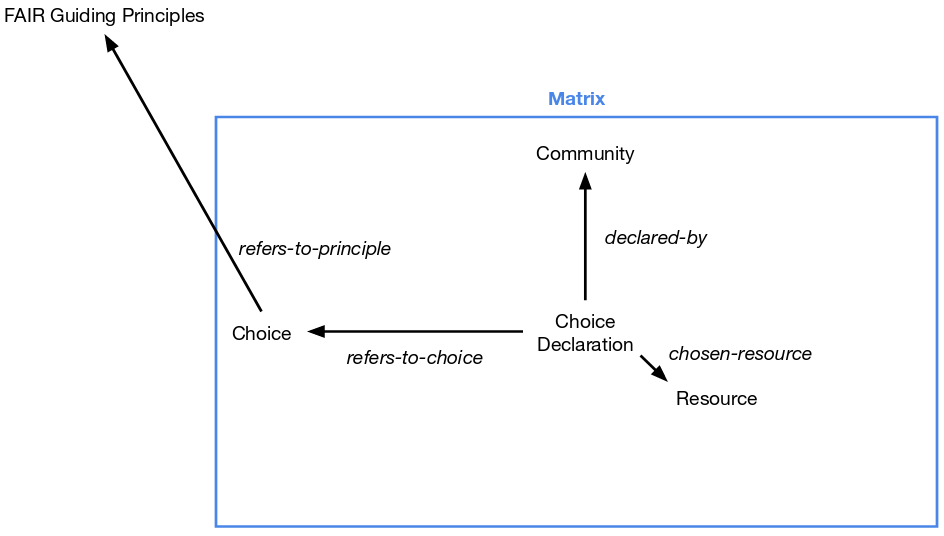
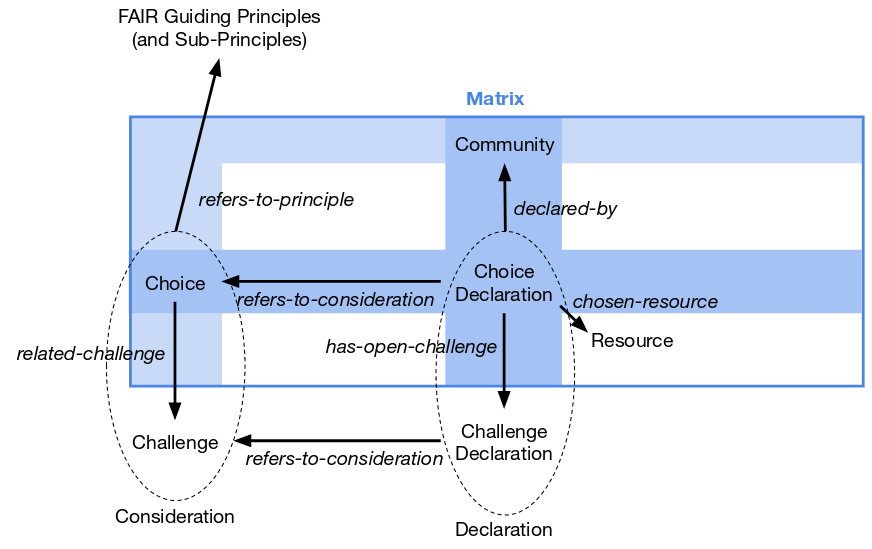
Add definitions around challenges

Changed region(s): [[0.0, 0.1194, 1.0, 0.9851], [0.0, 0.0, 0.3716, 0.1194]]

diff --git a/icc-overview.md b/icc-overview.md
@@ -11,17 +11,20 @@
 ## Classes
 
 - `Choice`: The kind of choice communities have to make (can be expressed as a question; choices are represented as rows in the Matrix)
+- `Challenge`: The kind of challenge that some communities face if the lack of existing resources doesn't allow them to make a choice yet
+- `Consideration`: Something that is either a `Choice` or a `Challenge`
 - `Community`: A non-empty set of people and/or organizations that form a self-declared community with the aim to implement the FAIR principles for their fields of interest (communities are represented as columns in the Matrix)
 - `ChoiceDeclaration`: The expression of a community of their choice made (corresponds to an answer to a question, i.e. a cell in the Matrix)
+- `ChallengeDeclaration`: The expression of a community of challenge they accepted
+- `Declaration`: Something that is either a `ChoiceDeclaration` or a `ChallengeDeclaration`
 - `Resource`: An artifact or service that can contribute to the implementation of the FAIR principles (corresponds to the possible values of the cells in the Matrix)
 
 ## Properties (= Relations)
 
-- `refers-to-principle`: connects a `Choice` (left) to the FAIR principle (right) it refers to (a choice can refer to zero or more FAIR principles)
-- `refers-to-choice`: connects a `ChoiceDeclaration` (left) to the `Choice` (right) it is derived from (indicates row of the Matrix; a choice declaration has to refer to exactly one choice; to address several choices, separate choice declarations should be defined)
-- `declared-by`: connects a `ChoiceDeclaration` (left) to the `Community` (right) that made the declaration (a choice declaration has to refer to exactly one community; to refer to several communities, separate choice declarations should be defined)
+- `refers-to-principle`: connects a `Consideration` (left) to a FAIR (sub-)principle (right) it refers to (a choice can refer to zero or more FAIR principles)
+- `related-challenge`: connects a `Choice` (left) to a `Challenge` (right) that some communities might face before they can make the given kind of choice
+- `refers-to-consideration`: connects a `Declaration` (left) to the `Consideration` (right) it is derived from (indicates row of the Matrix for choice declarations; a declaration has to refer to exactly one consideration; to address several consideration, separate declarations should be defined)
+- `declared-by`: connects a `Declaration` (left) to the `Community` (right) that made the declaration (a declaration has to refer to exactly one community; to refer to several communities, separate declarations should be defined)
 - `chosen-resource`: connects `ChoiceDeclaration` (left) to the `Resource` (right) that was chosen through the declaration (to refer to several resources, separate choice declarations should be defined)
+- `has-open-challenge`: connects a `ChoiceDeclaration` (left) that doesn't have a chosen resource to a `ChallengeDeclaration` that describes a challenge that has to be met before the community can choose a resource (a choice declaration can refer to several challenge declarations)
 
-## TODO
-
-Include `Challenge` and `ChallengeDeclaration`...
